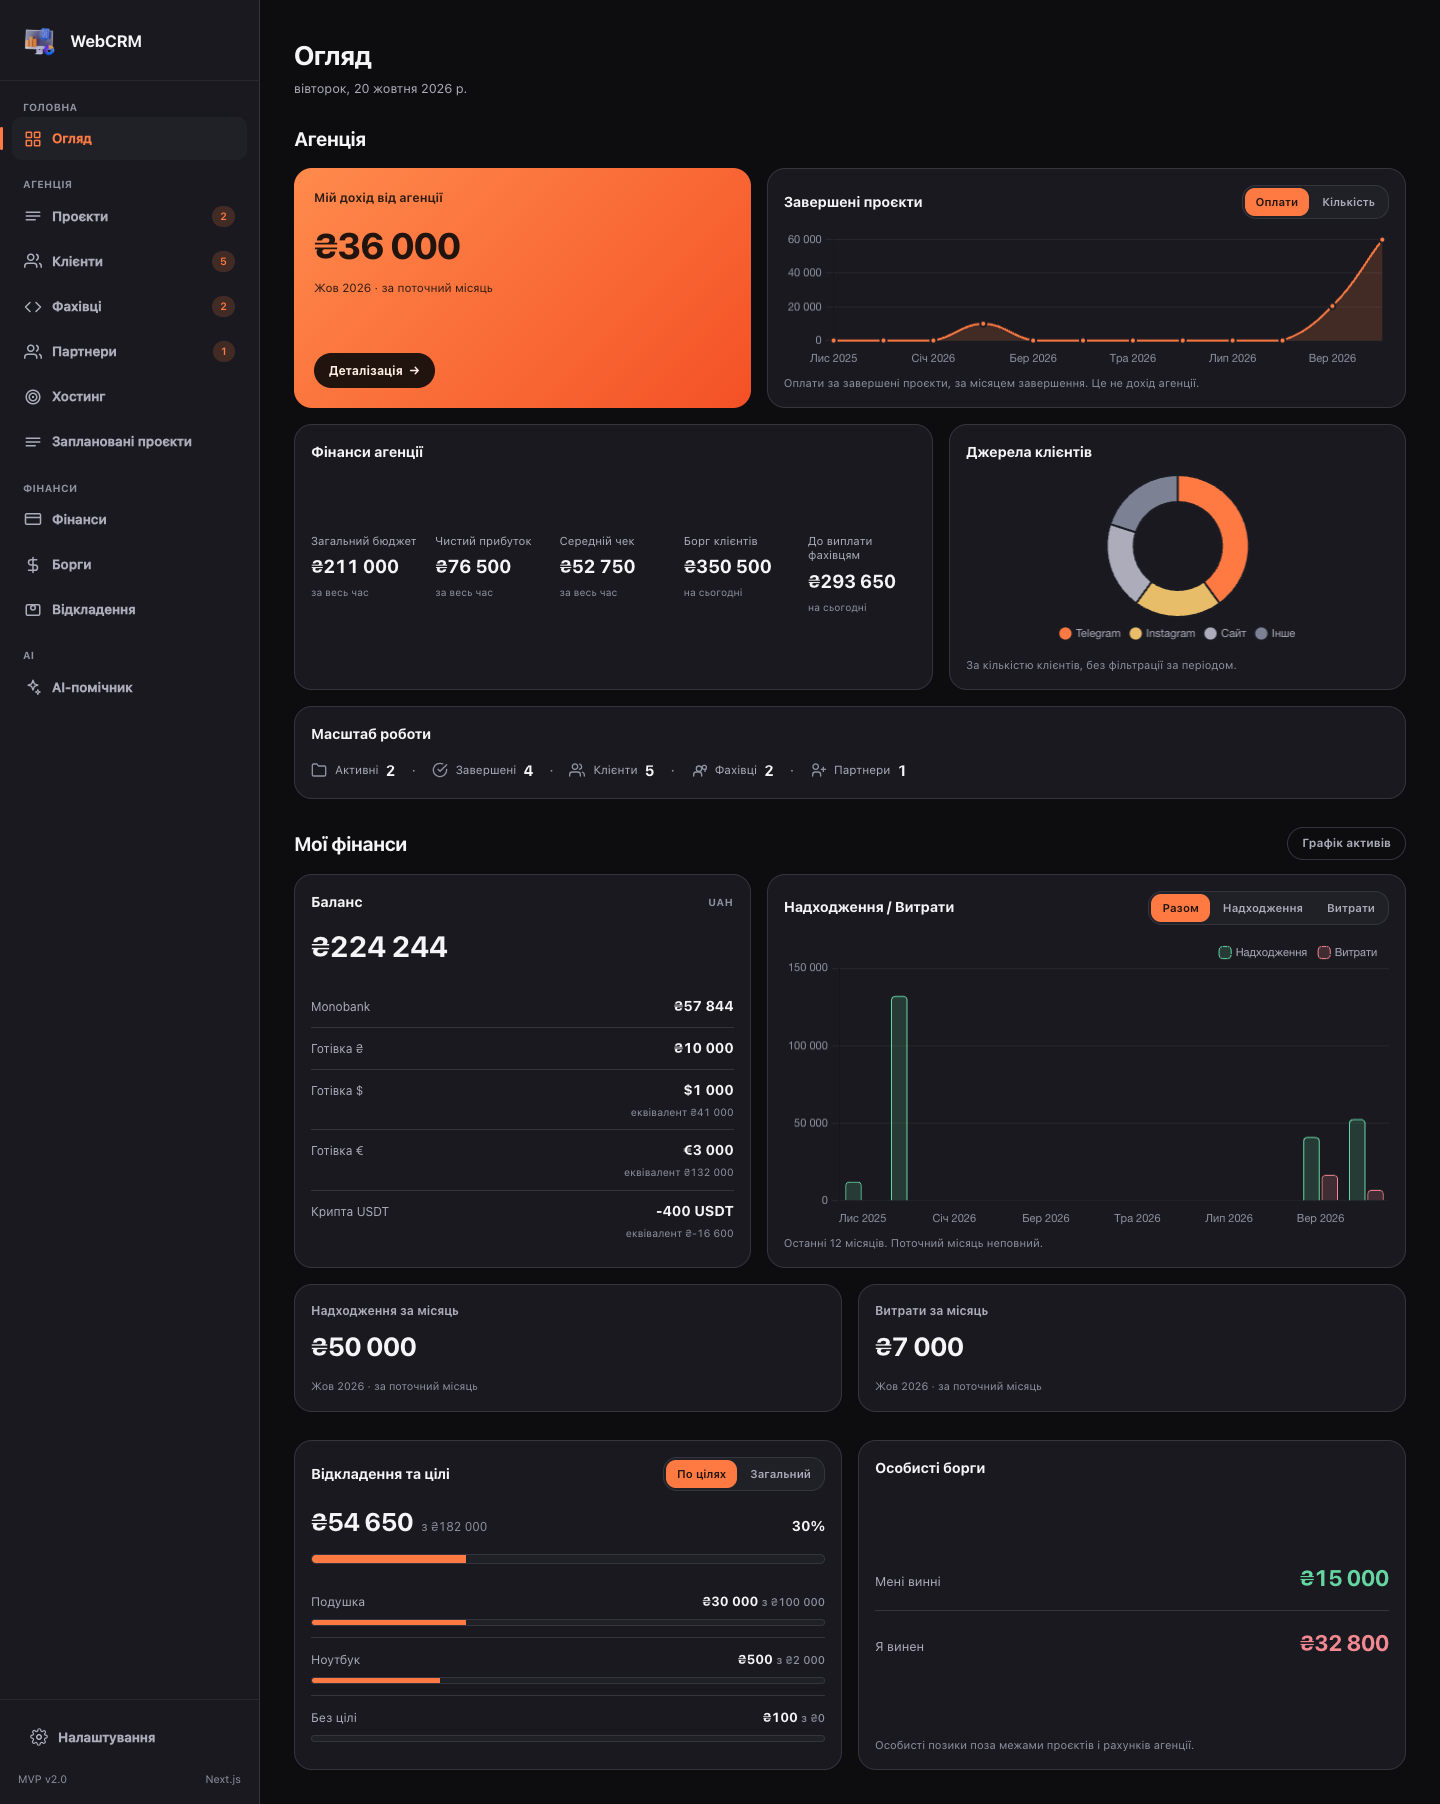
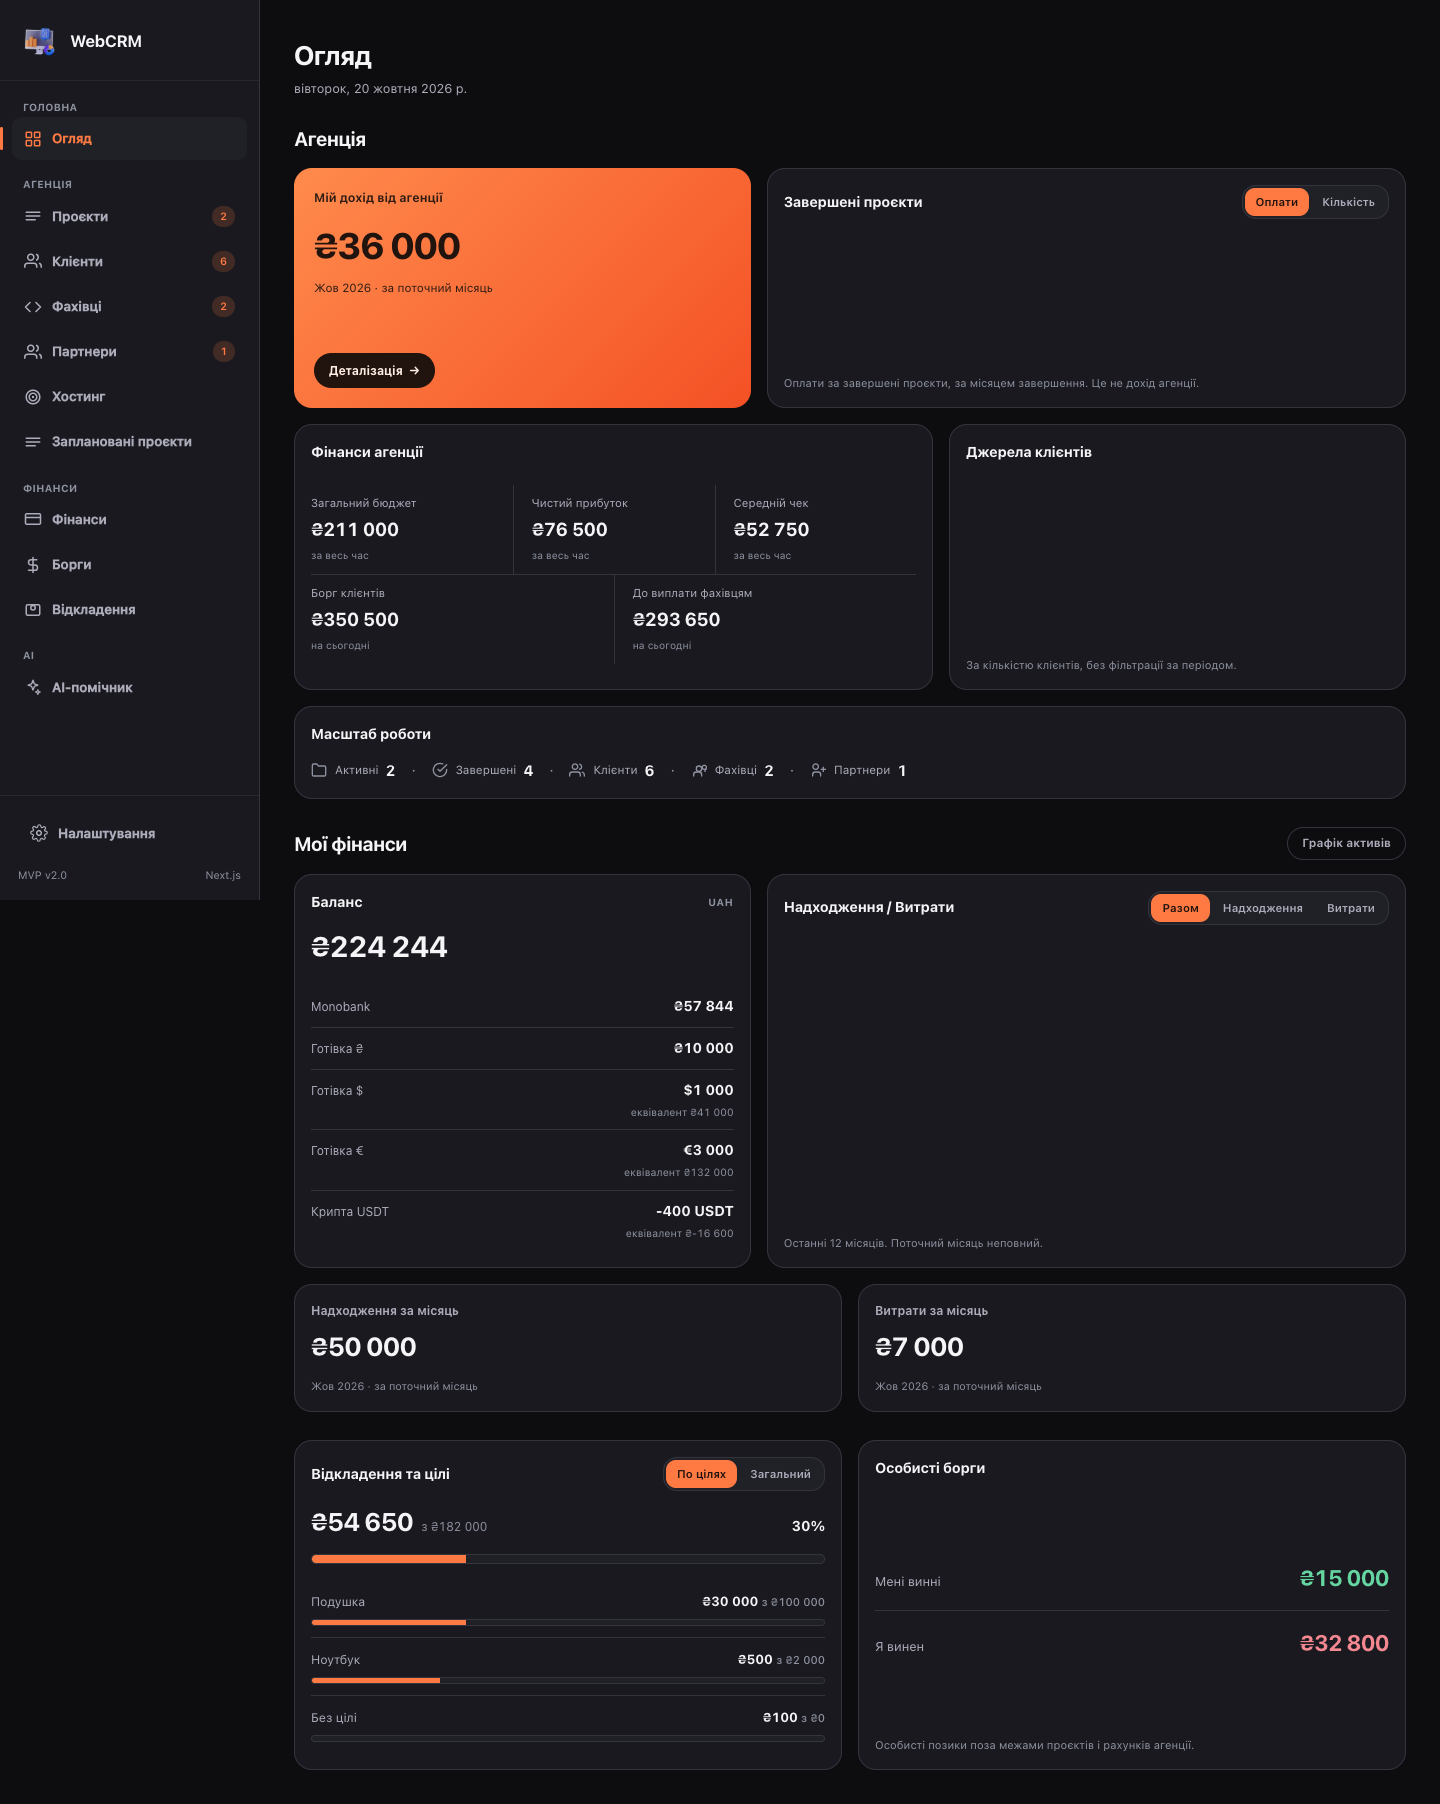
fix(dashboard): agency-money 3+2 metrics grid, 5-in-a-row via container query
Panel «Фінанси агенції» was squeezed into 5 equal cells (~150px each):
sums and labels were tight and the group read as five tiny boxes.

- one graphite panel, 6-col grid: row 1 spans 2 cols each (budget /
  profit / average deal), row 2 spans 3 cols each (client debt /
  payouts) — 3+2 with thin neutral dividers, no per-metric cards
- @container (min-width: 940px) restores 5-in-a-row only when every
  cell is >= ~175px, judged by the panel width, not the viewport
- @container (min-width: 450px): single-line labels when they always
  fit; below that labels reserve two lines so values stay aligned
- label min-height / value font / padding scale down at 1279px,
  899px (2 cols, no dividers), 480px and 350px (1 col)

Formulas, sources, currencies and periods untouched (lib/calc.ts,
lib/dashboard-view.ts, fixtures unchanged). Verified 1920->320: no
value overflow, no horizontal scroll, order preserved.

diff --git a/app/globals.css b/app/globals.css
@@ -2877,14 +2877,65 @@ tr.week-b .week-dot {
 .ov-hero-action:active { transform: translateY(0); }
 .ov-hero-action:focus-visible { outline: 2px solid var(--g-accent-ink); outline-offset: 3px; }
 
-/* ---- Компактні ячейки в спільній панелі (без окремих прямокутників) ---- */
+/* ---- «Фінанси агенції»: одна графітова панель, комірки без власних карток ----
+   Сітка 3+2: перший ряд — бюджет / прибуток / середній чек, другий — борги (ширші).
+   Роздільники — тонкі нейтральні лінії + відступ, не рамки. Порядок показників
+   фіксований (5 позицій), тому nth-child безпечний. Суми не обрізати. */
 .ov-metrics {
   display: grid;
-  grid-template-columns: repeat(5, minmax(0, 1fr));
-  gap: 18px 16px;
+  grid-template-columns: repeat(6, minmax(0, 1fr));
+  gap: 0;
   margin-top: 2px;
   flex: 1;
   align-content: center;
+}
+
+.ov-metrics .ov-metric {
+  display: flex;
+  flex-direction: column;
+  gap: 3px;
+  min-width: 0;
+  padding: 11px 18px;
+}
+
+.ov-metrics .ov-metric:nth-child(-n + 3) { grid-column: span 2; border-bottom: 1px solid var(--g-border); }
+.ov-metrics .ov-metric:nth-child(n + 4) { grid-column: span 3; }
+
+/* вертикальні роздільники: між 1-2, 2-3 і 4-5 */
+.ov-metrics .ov-metric:nth-child(2),
+.ov-metrics .ov-metric:nth-child(3),
+.ov-metrics .ov-metric:nth-child(5) { border-left: 1px solid var(--g-border); }
+
+/* ліва комірка рядка притиснута до краю панелі, права — до протилежного */
+.ov-metrics .ov-metric:nth-child(1),
+.ov-metrics .ov-metric:nth-child(4) { padding-left: 0; }
+.ov-metrics .ov-metric:nth-child(3),
+.ov-metrics .ov-metric:nth-child(5) { padding-right: 0; }
+
+/* назва фіксує висоту, щоб суми й періоди в рядку стояли на одній лінії;
+   на вужчій панелі назва переноситься на другу лінію — інакше сума в
+   наступній комірці поїхала б під неї */
+.ov-metrics .ov-metric-label { min-height: 2.6em; }
+
+/* Контейнер ширини самої панелі (не в’юпорту) — для @container нижче. */
+.ov-card--agency-money { container-type: inline-size; }
+
+/* Панель достатньо широка (комірка першого рядка ≥ ~138 px): назва вміщується
+   в один рядок, зайвий рядок під нею не потрібен. */
+@container (min-width: 450px) {
+  .ov-metrics .ov-metric-label { min-height: 1.3em; }
+}
+
+/* Панель ≥940 px: п'ять метрик в один ряд, коли в кожній ≥ ~175 px. */
+@container (min-width: 940px) {
+  .ov-metrics { grid-template-columns: repeat(5, minmax(0, 1fr)); }
+  .ov-metrics .ov-metric:nth-child(n) {
+    grid-column: auto;
+    padding: 11px 18px;
+    border: 0;
+    border-left: 1px solid var(--g-border);
+  }
+  .ov-metrics .ov-metric:nth-child(1) { padding-left: 0; border-left: 0; }
 }
 
 .ov-metric { display: flex; flex-direction: column; gap: 3px; min-width: 0; }
@@ -3156,8 +3207,11 @@ tr.week-b .week-dot {
 }
 
 /* ---- Responsive: порядок секцій не змінюється, лише одна колонка ---- */
-@media (max-width: 1199px) {
-  .ov-metrics { grid-template-columns: repeat(3, minmax(0, 1fr)); }
+@media (max-width: 1279px) {
+  /* Панель «Фінанси агенції» вужча за 500 px: менша сума й тісніший відступ,
+     щоб довгі суми в першому рядку не виходили за комірку. */
+  .ov-metrics .ov-metric { padding: 10px 12px; }
+  .ov-metrics .ov-metric-value { font-size: 1.05rem; }
   .ov-hero-value { font-size: 1.85rem; }
 }
 
@@ -3167,7 +3221,10 @@ tr.week-b .week-dot {
 }
 
 @media (max-width: 899px) {
-  .ov-metrics { grid-template-columns: repeat(2, minmax(0, 1fr)); }
+  /* Мобільний: спочатку дві колонки, без роздільників і без 3+2. */
+  .ov-metrics { grid-template-columns: repeat(2, minmax(0, 1fr)); gap: 18px 16px; }
+  .ov-metrics .ov-metric:nth-child(n) { grid-column: auto; padding: 0; border: 0; }
+  .ov-metrics .ov-metric-label { min-height: 0; }
   .ov-section-title { font-size: 1.18rem; }
   .ov-scale-item::after { margin: 0 12px; }
 }
@@ -3190,6 +3247,11 @@ tr.week-b .week-dot {
   .ov-debt-value { font-size: 1.3rem; }
   .ov-scale { row-gap: 10px; }
   .ov-scale-item::after { margin: 0 10px; }
+}
+
+@media (max-width: 350px) {
+  /* За недостатньої ширини — одна колонка, порядок показників той самий. */
+  .ov-metrics { grid-template-columns: minmax(0, 1fr); }
 }
 
 /* =============================================

diff --git a/app/dashboard/page.tsx b/app/dashboard/page.tsx
@@ -121,7 +121,7 @@ export default function DashboardPage() {
 
         {/* Другий ряд: 7/12 + 5/12 */}
         <div className="ov-row ov-row--75">
-          <article className="ov-card">
+          <article className="ov-card ov-card--agency-money">
             <div className="ov-card-head">
               <h3 className="ov-card-title">Фінанси агенції</h3>
             </div>
